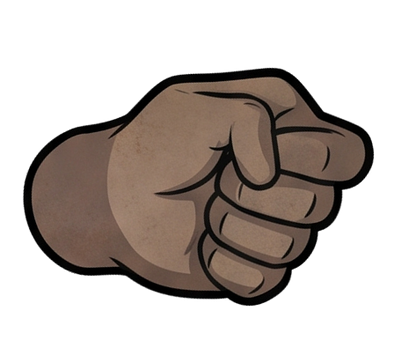
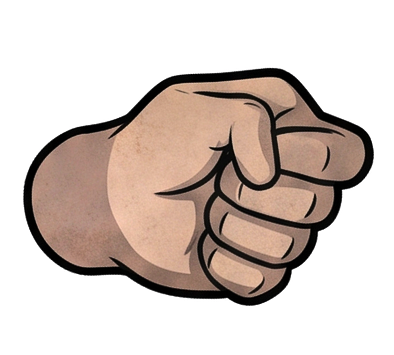
v1.32: omuz yukarı-sola, arka kol ön kolla aynı boyda ve daha açık renkte
Claude-Session: https://claude.ai/code/session_01LDwZLyZhG3Us8fbnE3d5s4

diff --git a/www/index.html b/www/index.html
@@ -38,7 +38,7 @@ canvas{cursor:crosshair}.etiket,.ipucu{pointer-events:none}
 <link rel="stylesheet" href="https://fonts.googleapis.com/css2?family=Bangers&family=Nunito:wght@700;800&display=swap">
 
 <canvas id="c"></canvas>
-<div class="etiket"><b>POPEYE FIGHTER</b>v1.31</div>
+<div class="etiket"><b>POPEYE FIGHTER</b>v1.32</div>
 <div class="ipucu">← → yürü &nbsp; ↑ zıpla &nbsp; J yumruk &nbsp; K tekme &nbsp; ↓ çömel &nbsp; <b>sürükle: sağ yarı ön kol, sol yarı arka kol</b></div>
 <div class="tus" id="asa">▼</div><div class="tus" id="yum">J</div><div class="tus" id="tek">K</div><div class="tus" id="sol">◀</div><div class="tus" id="sag">▶</div><div class="tus" id="zipla">▲</div>
 <div class="mini" id="sens">🎮 SENSÖR: KAPALI</div><div class="mini" id="sifir">⟲ Dengele</div>
@@ -53,16 +53,18 @@ canvas{cursor:crosshair}.etiket,.ipucu{pointer-events:none}
 const ADLAR=['kafa','govde','kalca','ustkol','onkol','onkol2','uyluk','altpan','bacak_bot','el_yum','el_yum_f','el_ac_n','el_ac_f','el_tut_n','el_tut_f'];
 const RES=2;                       // yeni parça görselleri oyun biriminin 2 katı çözünürlükte
 const R={};
-function koyult(img){            // arka taraftaki uzuvlar için hafif koyu kopya
+function koyult(img,al=.28){            // arka taraftaki uzuvlar için hafif koyu kopya
   const c=document.createElement('canvas');c.width=img.width;c.height=img.height;
   const x=c.getContext('2d');x.drawImage(img,0,0);
-  x.globalCompositeOperation='source-atop';x.fillStyle='rgba(40,35,60,.28)';x.fillRect(0,0,c.width,c.height);
+  x.globalCompositeOperation='source-atop';x.fillStyle='rgba(40,35,60,'+al+')';x.fillRect(0,0,c.width,c.height);
   return c;
 }
 let kalan=ADLAR.length;
 ADLAR.forEach(a=>{
   const im=new Image();
-  im.onload=()=>{R[a]=im;if(--kalan===0){['ustkol','onkol2','uyluk','altpan','bacak_bot','el_ac_n','el_tut_n'].forEach(n=>R[n+'_k']=koyult(R[n]));basla();}};
+  im.onload=()=>{R[a]=im;if(--kalan===0){['ustkol','onkol2','uyluk','altpan','bacak_bot'].forEach(n=>R[n+'_k']=koyult(R[n]));
+    ['ustkol','onkol2','el_ac_n','el_tut_n'].forEach(n=>R[n+'_a']=koyult(R[n],.13));   // arkadaki kol: bacaktan daha açık ton
+    basla();}};
   im.onerror=()=>{document.getElementById('yuk').textContent='Parça yüklenemedi: '+a};
   im.src='parca/'+a+'.png';
 });
@@ -973,7 +975,7 @@ function govdeUzayi(fn){ctx.save();ctx.translate(P.hx,-P.hy);ctx.rotate(P.pelv*D
 // Kol: üst kol -> dirsek -> ön kol (el, ön kolun altında; ön kol dirsek halkasında döner). Omuz noktaları bel noktasına göre.
 // el görselleri [anahtar, bilek x, bilek y]: yakın elde sırt görünür (yumruk, el_ac_f, el_tut_f); uzak elde avuç/parmaklar bize bakar (el_yum_f, el_ac_n, el_tut_n; sonuncular koyulaştırılmış)
 const KOL_EL={N:{yum:['el_yum',28.2,91.2],ac:['el_ac_f',21.9,96.3],tut:['el_tut_f',17.5,67.5]},
-              F:{yum:['el_yum_f',31.9,93.4],ac:['el_ac_n_k',24.7,104.9],tut:['el_tut_n_k',20.9,73.8]}};
+              F:{yum:['el_yum_f',31.9,93.4],ac:['el_ac_n_a',24.7,104.9],tut:['el_tut_n_a',20.9,73.8]}};
 const HS={N:'yum',F:'yum'}, ACT={N:0,F:0};     // el durumu: yum = yumruk, ac = tutmaya hazır açık el, tut = düşmanı tutuyor
 function elDurum(dt){
   for(const k of ['N','F']){
@@ -983,14 +985,14 @@ function elDurum(dt){
   }
 }
 function kol(omuzX,omuzY,u,r,ad,far,sc){
-  const sf=far?'_k':'';
+  const sf=far?'_a':'';
   ctx.save();ctx.translate(omuzX,omuzY);ctx.scale(sc,sc);ctx.rotate(u*D);
   resim(R['ustkol'+sf],46.2,35.2);
   ctx.translate(-10.1,124.1);ctx.rotate(r*D);            // dirsek: üst kol halkası ile ön kol halkası üst üste
   elKaydet(ad);
   {const d=KOL_EL[ad][HS[ad]||'yum'];
    ctx.save();ctx.translate(140.4,0);resim(R[d[0]],d[1],d[2]);ctx.restore();}   // el bilekte
-  resim(R[far?'onkol2_k':'onkol'],40.7,101.6);
+  resim(R[far?'onkol2_a':'onkol'],40.7,101.6);
   ctx.restore();
 }
 function ayakAci(l,b,diz){const f=((S.atk&&S.atk.ad.indexOf('kick')===0)||S.tats>0||S.dkick||(S.kay&&S.t<S.kay.t0+S.kay.T))?0:((S.yer&&!S.atk)?0.85:0.45),d=-(l+b)*f;return d+((100-(l+b))-d)*diz}   // diz: 1 = geride, ayak ucu yere değer
@@ -1029,7 +1031,7 @@ function karakter(){
   ctx.translate(P.ofs-P.hb,-yuk-P.lift);   // kalça ve üstü geriye (sola) kayar
   if(S.donuyor||S.tats>0||S.sman){ctx.translate(0,-170);ctx.rotate(S.spin);ctx.translate(0,170);}   // yuvarlanma: gövde ortasından ileri doğru döner
   BONg=BON;
-  govdeUzayi(()=>{ kol(28,-158,P.aFu,P.aFr,'F',true,0.92); });   // uzak kol en arka katmanda: biraz küçük, omza oturur
+  govdeUzayi(()=>{ kol(28,-158,P.aFu,P.aFr,'F',true,1.1); });   // uzak kol en arka katmanda: biraz küçük, omza oturur
   ctx.save();ctx.translate(BON,0);
   bacak(F.l,F.k,F.a,true);
   ctx.restore();
@@ -1038,7 +1040,7 @@ function karakter(){
   govdeUzayi(()=>{ ctx.scale(1.1,1.1);resim(R.govde,97.7,246.4); });      // gövde (%10 büyük) karnıyla kalçanın üstüne biner
   govdeUzayi(()=>{
     ctx.save();ctx.translate(-8,-262);ctx.rotate(P.bas*D);ctx.translate(5/SC,0);{const fy=YUZ[yuzNo(S.hp)];fy&&fy.complete&&fy.naturalWidth?ctx.drawImage(fy,-106.8,-213.8,228.7,256.6):ctx.drawImage(R.kafa,-85,-170,182,204)}ctx.restore();
-    kol(-53.2,-141.4,P.aNu,P.aNr,'N',false,1.1);         // yakın kol (%10 büyük)
+    kol(-59,-149,P.aNu,P.aNr,'N',false,1.1);         // yakın kol (%10 büyük)
   });
   ctx.restore();
 }
